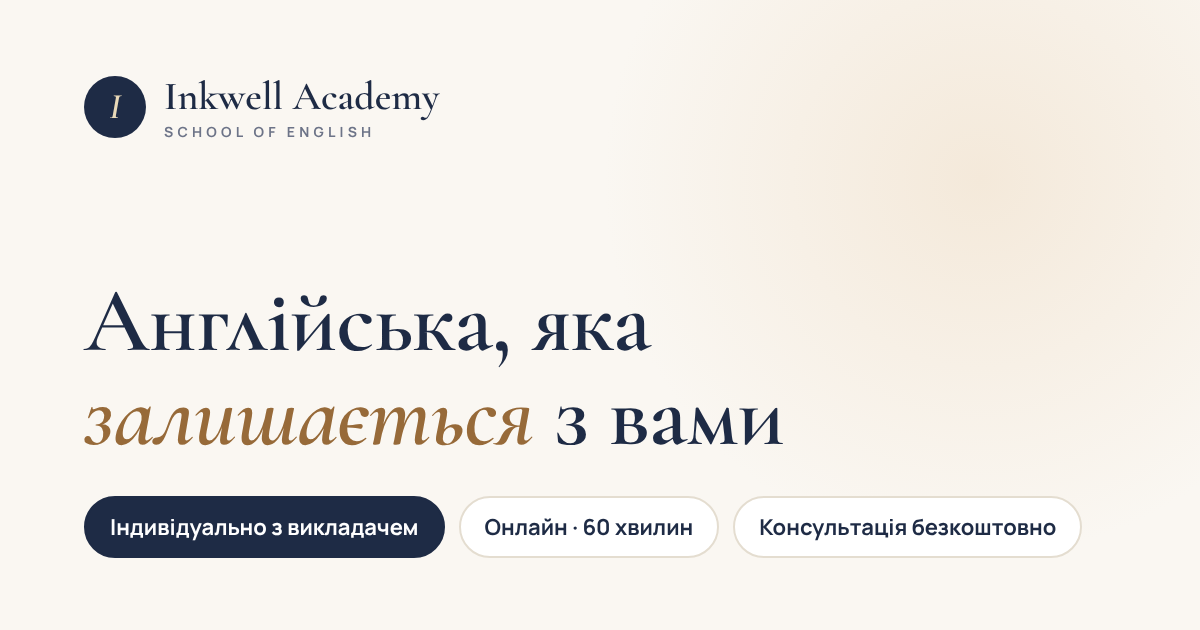
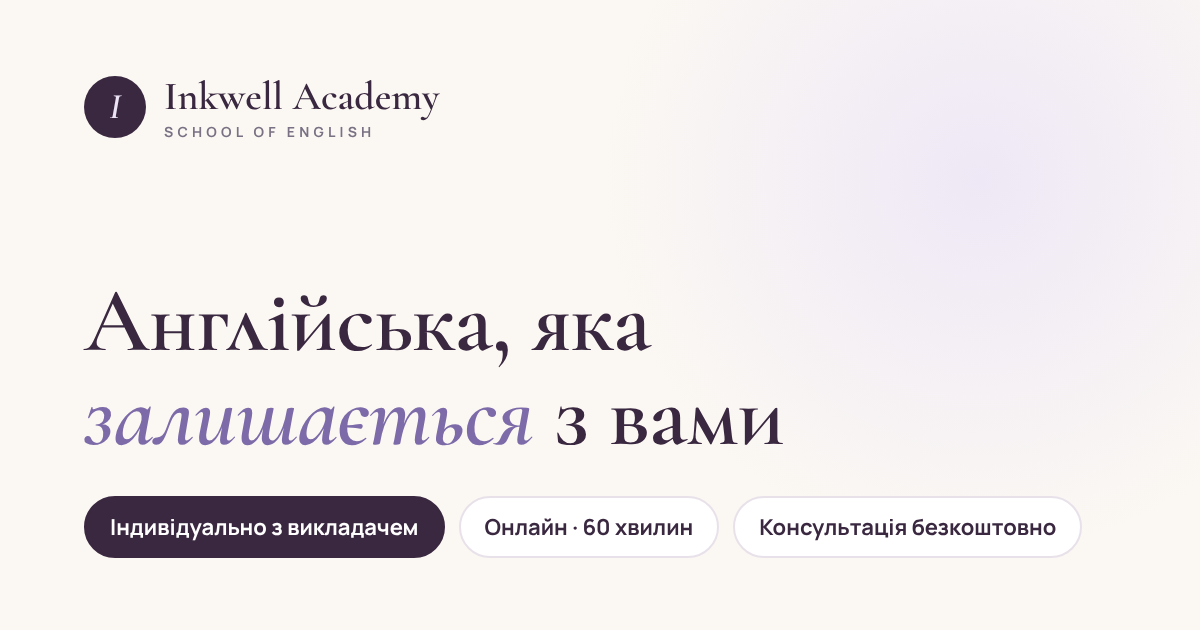
Нова палітра сайту: Plum, Lavender, Lilac, Ivory
Claude-Session: https://claude.ai/code/session_016tmaQ987QBHnqibYJ4BFLK

diff --git a/english-school/public/styles.css b/english-school/public/styles.css
@@ -1,14 +1,16 @@
 :root {
-  --bg: #faf7f2;
+  /* Палітра Plum · Lavender · Lilac · Ivory — стримана й м'яка для очей */
+  --bg: #fbf8f3;          /* ivory */
   --surface: #ffffff;
-  --tint: #f2ede4;
-  --ink: #1e2b45;
-  --ink-soft: #3b4763;
-  --muted: #6d7488;
-  --line: #e4ddd0;
-  --accent: #b5814a;
-  --accent-dark: #976a39;
-  --accent-soft: #f4e9da;
+  --tint: #f4f0f7;        /* світлий lilac */
+  --ink: #3a2840;         /* plum */
+  --ink-soft: #54465c;
+  --muted: #7a7184;
+  --line: #e8e1ea;
+  --accent: #7d6aa8;      /* lavender */
+  --accent-dark: #63518d;
+  --accent-soft: #eee8f6; /* lilac */
+  --on-dark: #d9cbea;     /* lilac на темному тлі */
   --success: #3f7d5c;
   --success-soft: #e5f1ea;
   --warn: #9a6b1f;
@@ -18,7 +20,7 @@
   --serif: 'Cormorant Garamond', Georgia, 'Times New Roman', serif;
   --sans: 'Manrope', system-ui, -apple-system, 'Segoe UI', sans-serif;
   --radius: 18px;
-  --shadow: 0 1px 2px rgba(30, 43, 69, .04), 0 12px 32px -12px rgba(30, 43, 69, .14);
+  --shadow: 0 1px 2px rgba(58, 40, 64, .04), 0 12px 32px -12px rgba(58, 40, 64, .14);
 }
 
 *, *::before, *::after { box-sizing: border-box; }
@@ -56,7 +58,7 @@ code { background: var(--tint); padding: 1px 6px; border-radius: 6px; font-size:
   color: var(--accent-dark);
   margin-bottom: .9rem;
 }
-.eyebrow-light { color: #e3c9a3; }
+.eyebrow-light { color: var(--on-dark); }
 .lead { font-size: 1.15rem; color: var(--ink-soft); max-width: 36em; }
 
 .skip-link { position: absolute; left: 16px; top: -60px; z-index: 100; background: var(--ink); color: #fff; padding: 10px 16px; border-radius: 10px; }
@@ -83,13 +85,13 @@ code { background: var(--tint); padding: 1px 6px; border-radius: 6px; font-size:
   outline-offset: 2px;
 }
 .btn-dark { background: var(--ink); color: #fff; }
-.btn-dark:hover { background: #2a3a5c; box-shadow: 0 10px 24px -10px rgba(30, 43, 69, .55); }
+.btn-dark:hover { background: #4b3553; box-shadow: 0 10px 24px -10px rgba(58, 40, 64, .55); }
 .btn-ghost { border-color: var(--line); color: var(--ink); background: transparent; }
 .btn-ghost:hover { border-color: var(--ink); }
 .btn-light { background: #fff; color: var(--ink); }
 .btn-light:hover { background: var(--accent-soft); }
 .btn-accent { background: var(--accent); color: #fff; }
-.btn-accent:hover { background: var(--accent-dark); box-shadow: 0 10px 24px -10px rgba(151, 106, 57, .6); }
+.btn-accent:hover { background: var(--accent-dark); box-shadow: 0 10px 24px -10px rgba(99, 81, 141, .55); }
 .btn-small { padding: 9px 18px; font-size: .875rem; }
 .btn-block { width: 100%; }
 
@@ -98,9 +100,9 @@ code { background: var(--tint); padding: 1px 6px; border-radius: 6px; font-size:
   position: sticky;
   top: 0;
   z-index: 50;
-  background: rgba(250, 247, 242, .88);
+  background: rgba(251, 248, 243, .88);
   backdrop-filter: saturate(1.4) blur(12px);
-  border-bottom: 1px solid rgba(228, 221, 208, .7);
+  border-bottom: 1px solid rgba(232, 225, 234, .7);
 }
 .header-inner { display: flex; align-items: center; justify-content: space-between; height: 76px; gap: 24px; }
 .logo { display: flex; align-items: center; gap: 12px; text-decoration: none; font-family: var(--serif); font-size: 1.6rem; font-weight: 700; line-height: 1; }
@@ -108,12 +110,12 @@ code { background: var(--tint); padding: 1px 6px; border-radius: 6px; font-size:
 .logo-mark {
   width: 42px; height: 42px; border-radius: 50%;
   display: grid; place-items: center;
-  background: var(--ink); color: #e9d9b8;
+  background: var(--ink); color: #ece3f5;
   font-size: 1.45rem; font-style: italic;
 }
 .logo-light { color: #fff; }
-.logo-light small { color: #a9b0c2; }
-.logo-light .logo-mark { background: #e9d9b8; color: var(--ink); }
+.logo-light small { color: #b3a7bb; }
+.logo-light .logo-mark { background: #ece3f5; color: var(--ink); }
 
 .nav { display: flex; align-items: center; gap: 28px; font-size: .925rem; font-weight: 500; }
 .nav a:not(.btn) { text-decoration: none; color: var(--ink-soft); transition: color .2s; }
@@ -144,7 +146,7 @@ code { background: var(--tint); padding: 1px 6px; border-radius: 6px; font-size:
 /* ---------- Уведомления ---------- */
 .flash { margin: 20px 0 0; padding: 14px 18px; border-radius: 12px; font-size: .95rem; border: 1px solid transparent; }
 .flash-success { background: var(--success-soft); color: var(--success); border-color: #cfe5d8; }
-.flash-info { background: var(--accent-soft); color: var(--accent-dark); border-color: #ecdcc6; }
+.flash-info { background: var(--accent-soft); color: var(--accent-dark); border-color: #e2d8ef; }
 .flash-error { background: var(--danger-soft); color: var(--danger); border-color: #f0cfca; }
 .auth-card .flash, .checkout .flash { margin: 0 0 20px; }
 
@@ -155,7 +157,7 @@ code { background: var(--tint); padding: 1px 6px; border-radius: 6px; font-size:
   position: absolute;
   inset: -20% -10% auto auto;
   width: 640px; height: 640px;
-  background: radial-gradient(circle, var(--accent-soft) 0%, rgba(244, 233, 218, 0) 70%);
+  background: radial-gradient(circle, var(--accent-soft) 0%, rgba(238, 232, 246, 0) 70%);
   z-index: -1;
 }
 .hero-inner { display: grid; grid-template-columns: 1.15fr .85fr; gap: 64px; align-items: center; }
@@ -163,7 +165,7 @@ code { background: var(--tint); padding: 1px 6px; border-radius: 6px; font-size:
 .hero-actions { display: flex; flex-wrap: wrap; gap: 12px; margin: 32px 0 28px; }
 .hero-points { list-style: none; padding: 0; margin: 0; display: flex; flex-wrap: wrap; gap: 10px 28px; color: var(--ink-soft); font-size: .925rem; }
 .hero-points li { display: flex; align-items: center; gap: 8px; }
-.hero-points svg { color: var(--success); }
+.hero-points svg { color: var(--accent); }
 
 .hero-card {
   background: var(--surface);
@@ -178,16 +180,16 @@ code { background: var(--tint); padding: 1px 6px; border-radius: 6px; font-size:
 .hc-time { display: flex; align-items: center; gap: 6px; font-size: .8rem; color: var(--muted); }
 .hc-title { font-family: var(--serif); font-size: 1.6rem; font-weight: 600; line-height: 1.2; margin-bottom: 18px; }
 .hc-progress { height: 6px; background: var(--tint); border-radius: 999px; overflow: hidden; }
-.hc-progress span { display: block; height: 100%; background: linear-gradient(90deg, var(--accent), #d2a874); border-radius: inherit; }
+.hc-progress span { display: block; height: 100%; background: linear-gradient(90deg, var(--accent), #b3a3d6); border-radius: inherit; }
 .hc-caption { font-size: .8rem; color: var(--muted); margin: 8px 0 22px; }
 .hc-teacher { display: flex; align-items: center; gap: 12px; margin-bottom: 22px; }
 .hc-teacher b { display: block; font-weight: 600; font-size: .95rem; }
 .hc-teacher small { display: block; font-size: .8rem; color: var(--muted); }
-.hc-avatar { width: 44px; height: 44px; border-radius: 50%; display: grid; place-items: center; flex: none; background: linear-gradient(135deg, var(--accent-soft), #e9dcc6); color: var(--accent-dark); }
+.hc-avatar { width: 44px; height: 44px; border-radius: 50%; display: grid; place-items: center; flex: none; background: linear-gradient(135deg, var(--accent-soft), #e3d9f0); color: var(--accent-dark); }
 .hc-word { background: var(--ink); color: #fff; border-radius: 16px; padding: 18px 20px; display: grid; gap: 2px; margin-bottom: 14px; }
-.hc-label { font-size: .68rem; letter-spacing: .2em; text-transform: uppercase; color: #e3c9a3; font-weight: 700; }
+.hc-label { font-size: .68rem; letter-spacing: .2em; text-transform: uppercase; color: var(--on-dark); font-weight: 700; }
 .hc-en { font-family: var(--serif); font-size: 1.7rem; font-style: italic; }
-.hc-ru { font-size: .85rem; color: #b8bfd0; }
+.hc-ru { font-size: .85rem; color: #c2b6ca; }
 
 .hero-price { display: inline-flex; align-items: center; gap: 8px; margin: 4px 0 0; padding: 8px 16px; border-radius: 999px; background: var(--surface); border: 1px solid var(--line); font-size: .95rem; color: var(--ink-soft); }
 .hero-price svg { color: var(--accent); }
@@ -238,10 +240,10 @@ code { background: var(--tint); padding: 1px 6px; border-radius: 6px; font-size:
 .price-card ul { list-style: none; padding: 0; margin: 0 0 30px; display: grid; gap: 12px; flex: 1; align-content: start; }
 .price-card li { display: flex; gap: 10px; align-items: flex-start; font-size: .95rem; color: var(--ink-soft); }
 .price-card li svg { color: var(--accent); flex: none; margin-top: 3px; }
-.price-old { margin: 4px 0 -4px; font-size: 1rem; color: #a9b0c2; text-decoration: line-through; }
-.price-card-accent { background: var(--ink); color: #fff; border-color: var(--ink); transform: translateY(-10px); box-shadow: 0 24px 48px -20px rgba(30, 43, 69, .55); }
-.price-card-accent li { color: #d3d8e4; }
-.price-card-accent li svg, .price-card-accent .price small { color: #e3c9a3; }
+.price-old { margin: 4px 0 -4px; font-size: 1rem; color: #b3a7bb; text-decoration: line-through; }
+.price-card-accent { background: var(--ink); color: #fff; border-color: var(--ink); transform: translateY(-10px); box-shadow: 0 24px 48px -20px rgba(58, 40, 64, .55); }
+.price-card-accent li { color: #ddd3e3; }
+.price-card-accent li svg, .price-card-accent .price small { color: var(--on-dark); }
 .price-badge { position: absolute; top: -13px; left: 32px; background: var(--accent); color: #fff; font-size: .7rem; font-weight: 700; letter-spacing: .08em; text-transform: uppercase; padding: 5px 12px; border-radius: 999px; }
 
 /* Преподаватели */
@@ -250,7 +252,7 @@ code { background: var(--tint); padding: 1px 6px; border-radius: 6px; font-size:
 .avatar {
   width: 96px; height: 96px; margin: 0 auto 20px; border-radius: 50%;
   display: grid; place-items: center;
-  background: linear-gradient(135deg, var(--accent-soft), #e9dcc6);
+  background: linear-gradient(135deg, var(--accent-soft), #e3d9f0);
   color: var(--accent-dark); font-family: var(--serif); font-size: 2.6rem; font-style: italic; font-weight: 600;
 }
 .teacher-role { font-size: .8rem; font-weight: 700; letter-spacing: .1em; text-transform: uppercase; color: var(--accent-dark); }
@@ -287,25 +289,26 @@ code { background: var(--tint); padding: 1px 6px; border-radius: 6px; font-size:
 /* Заявка */
 .cta { background: var(--ink); color: #fff; padding: clamp(64px, 9vw, 104px) 0; }
 .cta-inner { display: grid; grid-template-columns: 1fr 1fr; gap: 64px; align-items: center; }
-.cta p { color: #c3c9d7; font-size: 1.05rem; }
+.cta p { color: #d4c9da; font-size: 1.05rem; }
 .cta-form { background: rgba(255, 255, 255, .05); border: 1px solid rgba(255, 255, 255, .12); border-radius: 22px; padding: 32px; display: grid; gap: 18px; }
-.cta-form label { display: grid; gap: 8px; font-size: .875rem; font-weight: 600; color: #dde1ea; }
-.cta-form .optional { color: #949cb0; }
+.cta-form label { display: grid; gap: 8px; font-size: .875rem; font-weight: 600; color: #e6dcea; }
+.cta-form .optional { color: #a397ab; }
 .cta-form input, .cta-form textarea { background: rgba(255, 255, 255, .08); border-color: rgba(255, 255, 255, .16); color: #fff; }
-.cta-form input:focus, .cta-form textarea:focus { border-color: #e3c9a3; background: rgba(255, 255, 255, .12); }
-.cta-form ::placeholder { color: #8d95a8; }
-.cta-form .form-note { margin: 0; font-size: .8rem; color: #949cb0; text-align: center; }
-.cta-form .form-note a { color: #e3c9a3; }
+.cta-form input:focus, .cta-form textarea:focus { border-color: var(--on-dark); background: rgba(255, 255, 255, .12); }
+.cta-form ::placeholder { color: #9c90a5; }
+.cta-form .form-note { margin: 0; font-size: .8rem; color: #a397ab; text-align: center; }
+.cta-form .form-note a { color: var(--on-dark); }
 .hp { position: absolute !important; left: -9999px; width: 1px; height: 1px; overflow: hidden; }
 .cta-contacts { margin-top: 28px; }
 .cta-contacts a { color: #fff; border-color: rgba(255, 255, 255, .2); background: rgba(255, 255, 255, .05); }
-.cta-contacts a:hover { border-color: #e3c9a3; }
+.cta-contacts a:hover { border-color: var(--on-dark); }
 
 /* Контакти */
 .contact-links, .cta-contacts { display: flex; flex-wrap: wrap; gap: 10px; }
 .contact-links a, .cta-contacts a { display: inline-flex; align-items: center; gap: 8px; padding: 9px 16px; border-radius: 999px; border: 1px solid var(--line); text-decoration: none; font-weight: 600; font-size: .9rem; transition: border-color .2s; }
 .contact-links a:hover { border-color: var(--accent); }
 .contact-links svg, .cta-contacts svg { color: var(--accent); flex: none; }
+.cta-contacts svg { color: var(--on-dark); }
 .auth-card .contact-links { margin: 8px 0 24px; }
 
 /* ---------- Формы ---------- */
@@ -319,7 +322,7 @@ input, select, textarea {
   padding: 13px 16px;
   transition: border-color .2s, box-shadow .2s;
 }
-input:focus, select:focus, textarea:focus { outline: none; border-color: var(--accent); box-shadow: 0 0 0 4px rgba(181, 129, 74, .14); }
+input:focus, select:focus, textarea:focus { outline: none; border-color: var(--accent); box-shadow: 0 0 0 4px rgba(125, 106, 168, .16); }
 input:disabled { background: var(--tint); color: var(--muted); }
 textarea { resize: vertical; }
 .form { display: grid; gap: 18px; }
@@ -402,7 +405,7 @@ mark.fill { background: var(--warn-soft); color: var(--warn); padding: 1px 6px; 
 .buy-option { display: grid; grid-template-columns: 1fr auto auto; gap: 18px; align-items: center; padding: 16px 20px; border: 1px solid var(--line); border-radius: 14px; }
 .buy-option > div:first-child b { display: flex; align-items: center; gap: 8px; font-weight: 600; }
 .buy-option > div:first-child span:not(.tag) { font-size: .85rem; color: var(--muted); }
-.buy-option-accent { border-color: #e5cfb1; background: linear-gradient(135deg, var(--surface) 40%, var(--accent-soft)); }
+.buy-option-accent { border-color: #d9cdea; background: linear-gradient(135deg, var(--surface) 40%, var(--accent-soft)); }
 .buy-price { text-align: right; display: grid; }
 .buy-price b { font-family: var(--serif); font-size: 1.6rem; font-weight: 600; line-height: 1.1; }
 .buy-price s { font-size: .8rem; color: var(--muted); }
@@ -445,7 +448,7 @@ mark.fill { background: var(--warn-soft); color: var(--warn); padding: 1px 6px; 
 .checklist .todo .check-icon { background: var(--danger-soft); color: var(--danger); }
 .checklist .ok span:not(.check-icon) { color: var(--muted); }
 .checklist-done { display: flex; align-items: center; gap: 8px; color: var(--success); font-weight: 600; }
-.row-new td { background: #fffaf2; }
+.row-new td { background: #faf6fd; }
 .nowrap { white-space: nowrap; }
 .big-num { font-family: var(--serif); font-size: 1.5rem; }
 .table .actions form { display: inline; }
@@ -466,15 +469,15 @@ mark.fill { background: var(--warn-soft); color: var(--warn); padding: 1px 6px; 
 .admin-stats b { font-family: var(--serif); font-size: 2.2rem; font-weight: 600; }
 
 /* ---------- Подвал ---------- */
-.site-footer { background: #172036; color: #c3c9d7; padding: 56px 0 28px; font-size: .925rem; }
+.site-footer { background: #2c1e31; color: #d4c9da; padding: 56px 0 28px; font-size: .925rem; }
 .footer-inner { display: grid; grid-template-columns: 1.4fr 1fr 1fr; gap: 40px; padding-bottom: 36px; border-bottom: 1px solid rgba(255, 255, 255, .08); }
-.footer-inner .muted { color: #8d95a8; margin-top: 16px; }
+.footer-inner .muted { color: #9c90a5; margin-top: 16px; }
 .footer-links, .footer-contacts { display: grid; gap: 10px; align-content: start; }
 .footer-contacts a { display: inline-flex; align-items: center; gap: 10px; }
-.footer-contacts svg { color: #e3c9a3; flex: none; }
+.footer-contacts svg { color: var(--on-dark); flex: none; }
 .site-footer a { text-decoration: none; }
-.footer-links a:hover, .footer-contacts a:hover { color: #e3c9a3; }
-.footer-bottom { padding-top: 24px; font-size: .825rem; color: #7c8499; }
+.footer-links a:hover, .footer-contacts a:hover { color: var(--on-dark); }
+.footer-bottom { padding-top: 24px; font-size: .825rem; color: #8f8298; }
 
 /* ---------- Чат ---------- */
 .badge { display: inline-grid; place-items: center; min-width: 20px; height: 20px; padding: 0 6px; border-radius: 999px; background: var(--accent); color: #fff; font-size: .72rem; font-weight: 700; line-height: 1; vertical-align: middle; }
@@ -518,7 +521,7 @@ mark.fill { background: var(--warn-soft); color: var(--warn); padding: 1px 6px; 
 .chat-attach input { position: absolute; width: 1px; height: 1px; opacity: 0; }
 .chat-attach:focus-within { outline: 2px solid var(--accent); outline-offset: 2px; }
 .chat-send { background: var(--ink); border-color: var(--ink); color: #fff; }
-.chat-send:hover { background: #2a3a5c; }
+.chat-send:hover { background: #4b3553; }
 .chat-send:disabled { opacity: .5; cursor: wait; }
 .chat-input { flex: 1; min-width: 0; display: grid; gap: 6px; }
 .chat-input textarea { resize: none; min-height: 46px; max-height: 200px; border-radius: 23px; padding: 12px 18px; line-height: 1.4; }
@@ -563,7 +566,7 @@ mark.fill { background: var(--warn-soft); color: var(--warn); padding: 1px 6px; 
     flex-direction: column; align-items: stretch; gap: 0;
     background: var(--bg); border-bottom: 1px solid var(--line);
     padding: 8px 16px 20px;
-    box-shadow: 0 16px 32px -16px rgba(30, 43, 69, .2);
+    box-shadow: 0 16px 32px -16px rgba(58, 40, 64, .2);
     display: none;
   }
   .nav-open .nav { display: flex; }

diff --git a/english-school/views.js b/english-school/views.js
@@ -149,13 +149,13 @@ ${noindex ? '<meta name="robots" content="noindex">' : `<link rel="canonical" hr
 <meta property="og:image:height" content="630">
 <meta property="og:locale" content="${lang === 'uk' ? 'uk_UA' : 'en_GB'}">
 <meta name="twitter:card" content="summary_large_image">
-<meta name="theme-color" content="#1e2b45">
+<meta name="theme-color" content="#3a2840">
 <link rel="icon" href="/favicon.svg" type="image/svg+xml">
 <link rel="apple-touch-icon" href="/apple-touch-icon.png">
 <link rel="preconnect" href="https://fonts.googleapis.com">
 <link rel="preconnect" href="https://fonts.gstatic.com" crossorigin>
 <link href="https://fonts.googleapis.com/css2?family=Cormorant+Garamond:ital,wght@0,500;0,600;0,700;1,500;1,600&family=Manrope:wght@400;500;600;700&display=swap" rel="stylesheet">
-<link rel="stylesheet" href="/styles.css?v=6">
+<link rel="stylesheet" href="/styles.css?v=8">
 ${analytics(events)}
 </head>
 <body class="${h(bodyClass)}">
